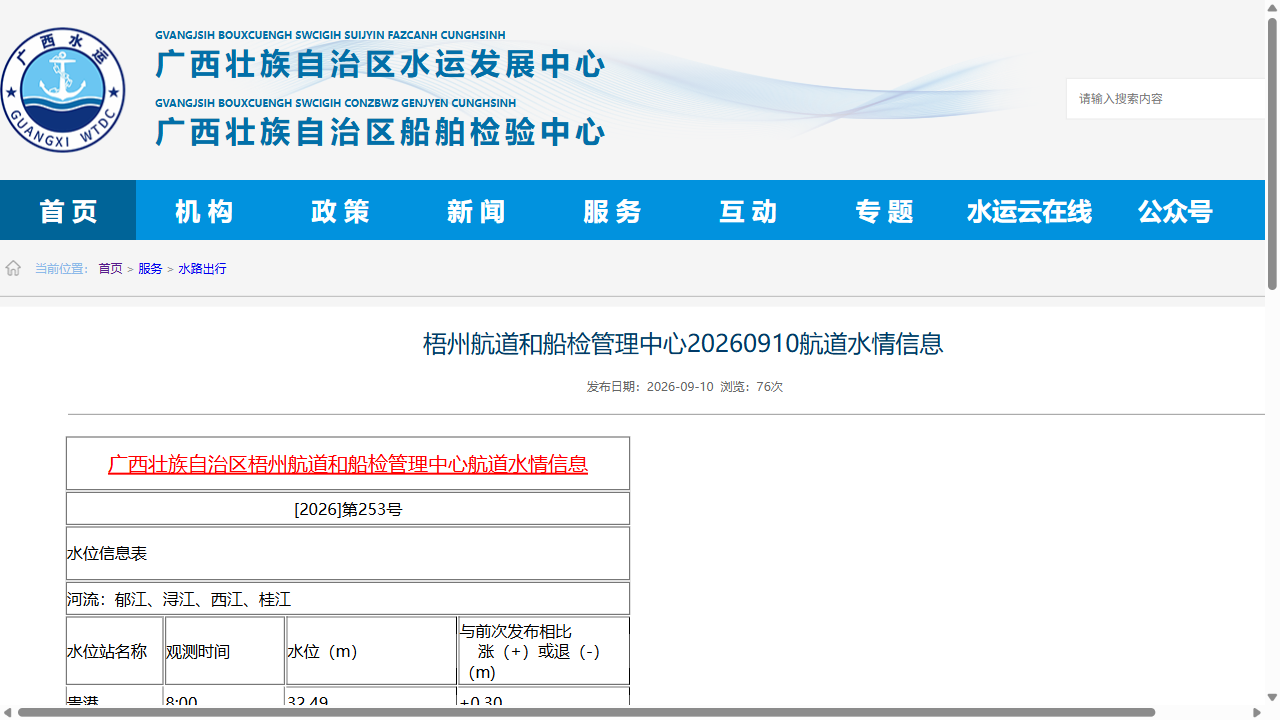
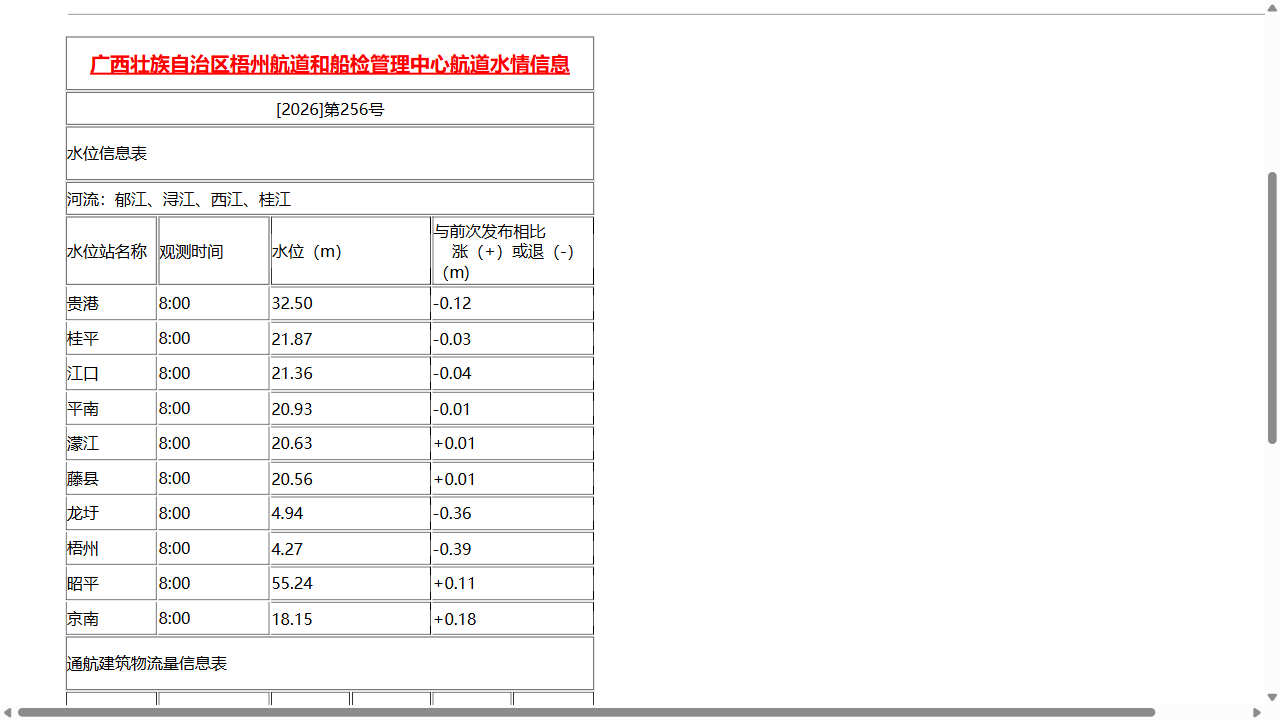
增加梧州水位过低警告信息

Changed region(s): [[0.0, 0.0306, 1.0, 0.9778], [0.9688, 0.3972, 1.0, 0.6111], [0.8438, 0.1222, 0.9062, 0.1528]]

diff --git a/water_level_report.html b/water_level_report.html
@@ -168,20 +168,20 @@
         <div class="status-section">
             <div class="status-item">
                 <span class="status-label">上游整体情况：</span>
-                <span class="status-value status-red">
-                    水位微微上升↗
+                <span class="status-value status-blue">
+                    水位略微下降⏬
                 </span>
             </div>
             <div class="status-item">
                 <span class="status-label">今日梧州水位：</span>
                 <span class="status-value status-blue">
-                    4.91m▼
+                    4.27m▼
                 </span>
             </div>
             <div class="status-item">
                 <span class="status-label">近2天梧州水位预报：</span>
                 <span class="status-value status-blue">
-                    5.01m~4.81m 预计水位变化不大 上下小幅波动    
+                    3.95m~3.67m 预计水位略微下降↘  
                 </span>
             </div>
         </div>
@@ -189,7 +189,7 @@
             <div class="status-item">
                 <span class="status-label">🚨水库预警：</span>
                 <span class="warningStatus-value">
-                     长洲枢纽出库流量更大，可能正在放水，对下游水位会有额外影响。请及时注意水位变化，加强船舶调度！
+                     大藤峡枢纽、桂平枢纽、长洲枢纽出库流量更大，可能正在放水，对下游水位会有额外影响。请及时注意水位变化，加强船舶调度！
                 </span>
             </div>
             <div class="status-item">
@@ -201,30 +201,30 @@
         </div>
         
         <div class="image-section">
-            <div class="image-overlay-text wz status-blue">4.91m▼</div>
+            <div class="image-overlay-text wz status-blue">4.27m▼</div>
             <div class="image-overlay-text status-blue" style="position: absolute;top: 41.25%;left: 86%;">====</div>
-            <div class="image-overlay-text jk status-blue">21.23m▼</div>
+            <div class="image-overlay-text jk status-blue">21.36m▼</div>
             <div class="image-overlay-text status-blue" style="position: absolute; top: 41.4%; left: 63.85%;">==</div>
-            <div class="image-overlay-text wx status-red">59.50m▲</div>
-            <div class="image-overlay-text status-red" style="position: absolute; top: 18.9%; left: 23.2%;">===========</div>
-            <div class="image-overlay-text lb status-blue">59.39m▼</div>
+            <div class="image-overlay-text wx status-blue">59.04m▼</div>
+            <div class="image-overlay-text status-blue" style="position: absolute; top: 18.9%; left: 23.2%;">===========</div>
+            <div class="image-overlay-text lb status-blue">58.98m▼</div>
             <div class="image-overlay-text status-blue" style="position: absolute; top: 18.9%; left: 4%;">===</div>
-            <div class="image-overlay-text lc status-blue">62.06m▼</div>
+            <div class="image-overlay-text lc status-blue">61.552m▼</div>
             <div class="image-overlay-text status-blue" style="position: absolute; top: 63.8%; left: 6%;">====</div>
-            <div class="image-overlay-text gg status-red">32.49m▲</div>
-            <div class="image-overlay-text status-red" style="position: absolute; top: 63.8%; left: 28.5%;">============</div>
+            <div class="image-overlay-text gg status-blue">32.50m▼</div>
+            <div class="image-overlay-text status-blue" style="position: absolute; top: 63.8%; left: 28.5%;">============</div>
             <div class="image-overlay-text" style="position: absolute; top: 42.4%; left: 92.2%;font-size:200%"> </div>
             <div class="image-overlay-text" style="position: absolute; top: 42.4%; left: 66.9%;font-size:200%"> </div>
             <div class="image-overlay-text" style="position: absolute; top: 20%; left: 37.9%;font-size:200%"> </div>
             <div class="image-overlay-text" style="position: absolute; top: 20%; left: 8.6%;font-size:200%"> </div>
             <div class="image-overlay-text" style="position: absolute; top: 65%; left: 12%;font-size:200%"> </div>
             <div class="image-overlay-text" style="position: absolute; top: 65%; left: 45%;font-size:200%"> </div>
-            <div class="image-overlay-text" style="position: absolute;top: 17%;left: 53.75%;font-size: 180%;writing-mode: vertical-rl;text-orientation: mixed;justify-content: center;align-items: center;display: flex;height: 20%;color:blue"> 正常</div>
-            <div class="image-overlay-text" style="position: absolute; top: 59.9%;left: 56.1%;font-size: 180%;writing-mode: vertical-rl;text-orientation: mixed;justify-content: center;align-items: center;display: flex;height: 20%;color:blue"> 正常</div>
+            <div class="image-overlay-text" style="position: absolute;top: 17%;left: 53.75%;font-size: 180%;writing-mode: vertical-rl;text-orientation: mixed;justify-content: center;align-items: center;display: flex;height: 20%;color:blue"> 🌊</div>
+            <div class="image-overlay-text" style="position: absolute; top: 59.9%;left: 56.1%;font-size: 180%;writing-mode: vertical-rl;text-orientation: mixed;justify-content: center;align-items: center;display: flex;height: 20%;color:blue"> 🌊</div>
             <div class="image-overlay-text" style="position: absolute; top: 39%; left: 79%;font-size: 180%;writing-mode: vertical-rl;text-orientation: mixed;justify-content: center;align-items: center;display: flex; height: 20%;color:blue"> 🌊</div>
-            <div class="image-overlay-text status-blue" style="position: absolute;top: -0.5%;left: 53.8%;font-size: 180%;">59.59m</div>
-            <div class="image-overlay-text status-blue" style="position: absolute;top: 88%;left: 56%;font-size: 180%;">31.05m</div>
-            <div class="image-overlay-text status-blue" style="position: absolute;top: 3%;left: 79%;font-size: 180%;">19.45m</div>
+            <div class="image-overlay-text status-blue" style="position: absolute;top: -0.5%;left: 53.8%;font-size: 180%;">59.03m</div>
+            <div class="image-overlay-text status-blue" style="position: absolute;top: 88%;left: 56%;font-size: 180%;">31.02m</div>
+            <div class="image-overlay-text status-blue" style="position: absolute;top: 3%;left: 79%;font-size: 180%;">19.5m</div>
             <img src="river.jpg" alt="西江流域图">
         </div>
         
@@ -344,13 +344,33 @@
                         <td>62.06▼</td>
                     </tr>
 
+                    <tr>
+                        <td>2026-09-11 8:00</td>
+                        <td>4.69▼</td>
+                        <td>21.46▲</td>
+                        <td>32.59▲</td>
+                        <td>59.40▼</td>
+                        <td>59.38▼</td>
+                        <td>61.935▼</td>
+                    </tr>
+
+                    <tr>
+                        <td>2026-09-13 08:00</td>
+                        <td>4.27▼</td>
+                        <td>21.36▼</td>
+                        <td>32.50▼</td>
+                        <td>59.04▼</td>
+                        <td>58.98▼</td>
+                        <td>61.552▼</td>
+                    </tr>
+
                 </tbody>
             </table>
         </div>
         
         <div class="timestamp">
-            报告生成时间: 2026-09-10 10:53:41<br>
-            数据记录数: 10 条
+            报告生成时间: 2026-09-13 18:09:50<br>
+            数据记录数: 12 条
         </div>
     </div>
     
@@ -359,11 +379,11 @@
         new Chart(ctx, {
             type: 'line',
             data: {
-                labels: ["2026-08-31 8:00", "2026-09-01 8:00", "2026-09-02 8:00", "2026-09-03 8:00", "2026-09-04 8:00", "2026-09-06 8:00", "2026-09-07 8:00", "2026-09-08 8:00", "2026-09-09 8:00", "2026-09-10 8:00"],
+                labels: ["2026-08-31 8:00", "2026-09-01 8:00", "2026-09-02 8:00", "2026-09-03 8:00", "2026-09-04 8:00", "2026-09-06 8:00", "2026-09-07 8:00", "2026-09-08 8:00", "2026-09-09 8:00", "2026-09-10 8:00", "2026-09-11 8:00", "2026-09-13 08:00"],
                 datasets: [
                 {
                     label: '梧州',
-                    data: [12.81, 12.72, 11.36, 8.12, 5.42, 6.21, 5.69, 5.86, 5.54, 4.91],
+                    data: [12.81, 12.72, 11.36, 8.12, 5.42, 6.21, 5.69, 5.86, 5.54, 4.91, 4.69, 4.27],
                     borderColor: 'rgb(255, 99, 132)',
                     backgroundColor: 'rgb(255, 99, 132)',
                     tension: 0.1,
@@ -371,7 +391,7 @@
                 },
                 {
                     label: '江口',
-                    data: [27.08, 26.32, 24.43, 22.41, 21.67, 22.02, 21.94, 21.75, 21.39, 21.23],
+                    data: [27.08, 26.32, 24.43, 22.41, 21.67, 22.02, 21.94, 21.75, 21.39, 21.23, 21.46, 21.36],
                     borderColor: 'rgb(54, 162, 235)',
                     backgroundColor: 'rgb(54, 162, 235)',
                     tension: 0.1,
@@ -379,7 +399,7 @@
                 },
                 {
                     label: '贵港',
-                    data: [44.254, 41.645, 36.88, 33.76, 33.35, 33.37, 33.16, 32.65, 32.19, 32.49],
+                    data: [44.254, 41.645, 36.88, 33.76, 33.35, 33.37, 33.16, 32.65, 32.19, 32.49, 32.59, 32.5],
                     borderColor: 'rgb(255, 205, 86)',
                     backgroundColor: 'rgb(255, 205, 86)',
                     tension: 0.1,
@@ -387,7 +407,7 @@
                 },
                 {
                     label: '武宣',
-                    data: [59.09, 59.12, 58.48, 58.93, 59.48, 59.46, 59.5, 59.38, 59.48, 59.5],
+                    data: [59.09, 59.12, 58.48, 58.93, 59.48, 59.46, 59.5, 59.38, 59.48, 59.5, 59.4, 59.04],
                     borderColor: 'rgb(75, 192, 192)',
                     backgroundColor: 'rgb(75, 192, 192)',
                     tension: 0.1,
@@ -395,7 +415,7 @@
                 },
                 {
                     label: '来宾',
-                    data: [59.94, 59.39, 59.13, 59.34, 59.57, 59.42, 59.77, 59.72, 59.59, 59.39],
+                    data: [59.94, 59.39, 59.13, 59.34, 59.57, 59.42, 59.77, 59.72, 59.59, 59.39, 59.38, 58.98],
                     borderColor: 'rgb(153, 102, 255)',
                     backgroundColor: 'rgb(153, 102, 255)',
                     tension: 0.1,
@@ -403,7 +423,7 @@
                 },
                 {
                     label: '峦城',
-                    data: [64.242, 62.939, 62.306, 62.511, 62.181, 62.113, 62.181, 61.896, 62.133, 62.06],
+                    data: [64.242, 62.939, 62.306, 62.511, 62.181, 62.113, 62.181, 61.896, 62.133, 62.06, 61.935, 61.552],
                     borderColor: 'rgb(255, 159, 64)',
                     backgroundColor: 'rgb(255, 159, 64)',
                     tension: 0.1,

diff --git a/screenshot.py b/screenshot.py
@@ -438,6 +438,11 @@ def generate_html_report(data):
     if s3 != 0:
         station_warning += '水位快速上涨（日涨幅超2米）！'
 
+    #梧州是否需要水位过低警告
+    if float(latest_wuzhou_data) < 4:
+        latest_wuzhou_wSymbol = '⚠'
+        station_warning += '梧州水位过低！'
+
     if station_warning != ' ':
         station_warning += '请及时注意水位变化，加强船舶调度！'
 
@@ -884,19 +889,22 @@ def main():
         
         # 等待页面加载完成
         print("等待页面加载...")
-        page.wait_for_load_state("networkidle")
+
+        time.sleep(5)
+
+        #page.wait_for_load_state("networkidle")
         
         # 截图保存列表页
         screenshot_path = "screenshot_list.png"
         page.screenshot(path=screenshot_path)
         print(f"列表页截图已保存到: {screenshot_path}")
         
-        # 获取前4条新闻链接
+        # 获取前5条新闻链接
         links = page.locator('.newsList li')
         link_count = links.count()
         
-        # 只处理前4条或实际存在的链接数
-        num_links = min(4, link_count)
+        # 只处理前5条或实际存在的链接数
+        num_links = min(5, link_count)
         
         # 使用字典存储所有数据，站名为键
         all_water_data = {}
@@ -920,7 +928,10 @@ def main():
             
             # 等待详情页加载完成
             print("等待详情页加载...")
-            page.wait_for_load_state("networkidle")
+
+            time.sleep(5)
+
+            #page.wait_for_load_state("networkidle")
             
             # 截图保存详情页
             screenshot_detail_path = f"screenshot_detail_{i+1}.png"
@@ -951,7 +962,10 @@ def main():
             # 返回列表页
             print("返回列表页...")
             page.goto("https://www.gxghj.cn/c/fw/slcx")
-            page.wait_for_load_state("networkidle")
+
+            time.sleep(5)
+
+            #page.wait_for_load_state("networkidle")
             
             time.sleep(1)
         
@@ -1063,7 +1077,7 @@ def main():
         print("报告已生成: water_level_report.html")
         
         # 等待几秒查看效果
-        time.sleep(3)
+        time.sleep(2)
         
         # 关闭浏览器
         browser.close()

diff --git a/README.md b/README.md
@@ -7,13 +7,12 @@
 **1.** 爬取广西水运发展中心每日发布的官方航道水情信息，涵盖梧州仓码上游西江流域内6个水文站点与3个通航水利枢纽的水位相关数据。  
 **2.** 存储每日的航道水位与水利枢纽相关数据到本地，本地化持久存储。  
 **3.** 将爬取到的航道水位数据可视化展示，并做分析，初步预判近日梧州航道水位变化情况。   
-**4.** 对爬取到的水位数据进行分析，并进行相关预警信息的显示，比如高水位、水位超警、放水预警。   
+**4.** 对爬取到的水位数据进行分析，并进行相关预警信息的显示，比如高水位、水位超警、放水预警。
 **5.** 支持将.py文件打包为.exe程序，可以在其他电脑更方便的使用。
 
 ## 使用说明
-
-**下载后（或本地部署成果执行打包指令之后），仅在“西江水位查看分析”文件夹内操作使用即可**  
-**1.** 打开文件夹后（西江水位查看分析文件夹），**双击运行“水位数据爬取.exe”文件。**  
+**下载后（或本地部署成果执行打包指令之后），仅在“西江水位查看分析器”文件夹内操作使用即可**  
+**1.** 打开文件夹后（西江水位查看分析器文件夹），**双击运行“水位数据爬取.exe”文件。**  
 **2.** 会打开一个终端页面，**请耐心等待10秒左右**，然后程序会开始自动运行。    
 **3.** 程序开始自动运行后，**终端页面会输出水位信息以及运行情况**，可以通过终端判断是否运行正常。   
 **4. 程序自动运行时会自动打开一个浏览器窗口，是自动爬虫窗口，请不要进行任何操作，运行结束后会在5秒内自动关闭！**   
@@ -31,22 +30,6 @@
 
 ### 如果您在使用时有问题或建议，欢迎联系我
 - **电子邮箱；liufuyu01@sinotrans.com**
-
-## 程序架构
-### 此为打包后的文件夹结构（本地部署执行打包指令后的dist文件夹需和此结构保持一致）
-```
-西江水位查看分析/
-├── 水位数据爬取.exe            # 主程序（双击运行，用于爬取、解析、存储、生成报告，勿动！）
-├── water_level_data.json      # 水位与枢纽历史数据（本地持久化存储，勿动,改动会影响可视化报告！）
-├── water_level_report.html    # 可视化分析报告（双击查看，程序运行后生成，勿动！）
-├── river.jpg                  # 流域示意图（报告内嵌图片，勿动，删除会影响可视化报告！）
-├── screenshot_list.png        # 列表页截图
-├── screenshot_detail_1.png    # 详情页截图1
-├── screenshot_detail_2.png    # 详情页截图2
-├── screenshot_detail_3.png    # 详情页截图3
-├── screenshot_detail_4.png    # 详情页截图4
-└── 使用说明.txt                # 程序说明文档
-```
 
 ## 本地部署
 
